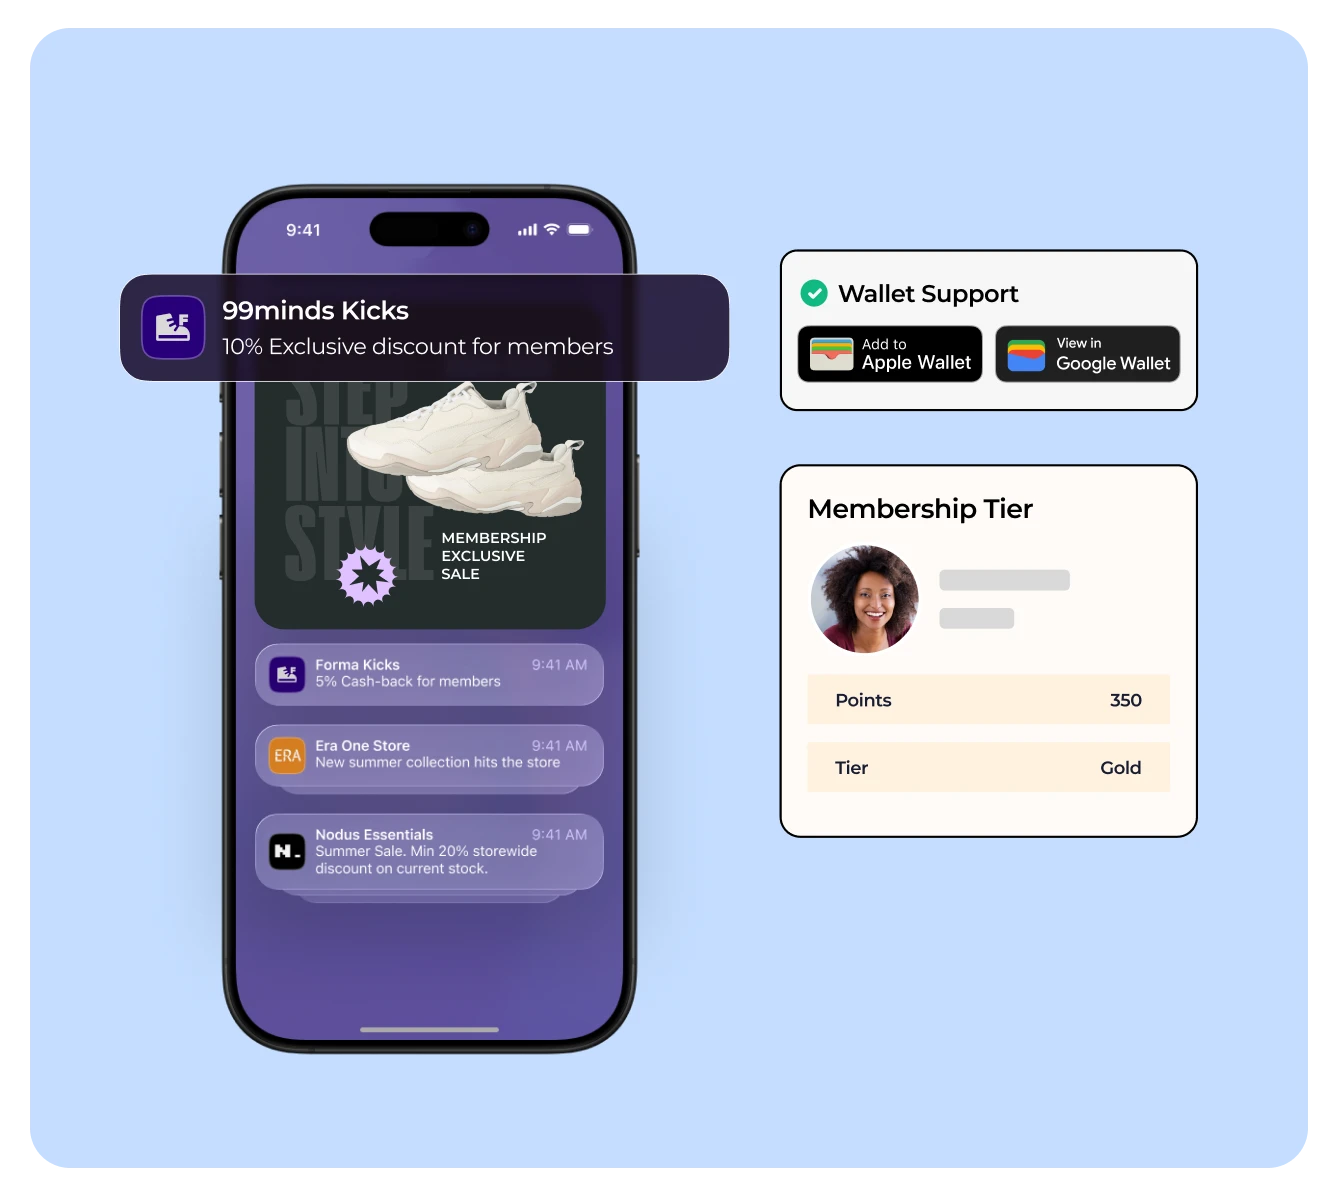
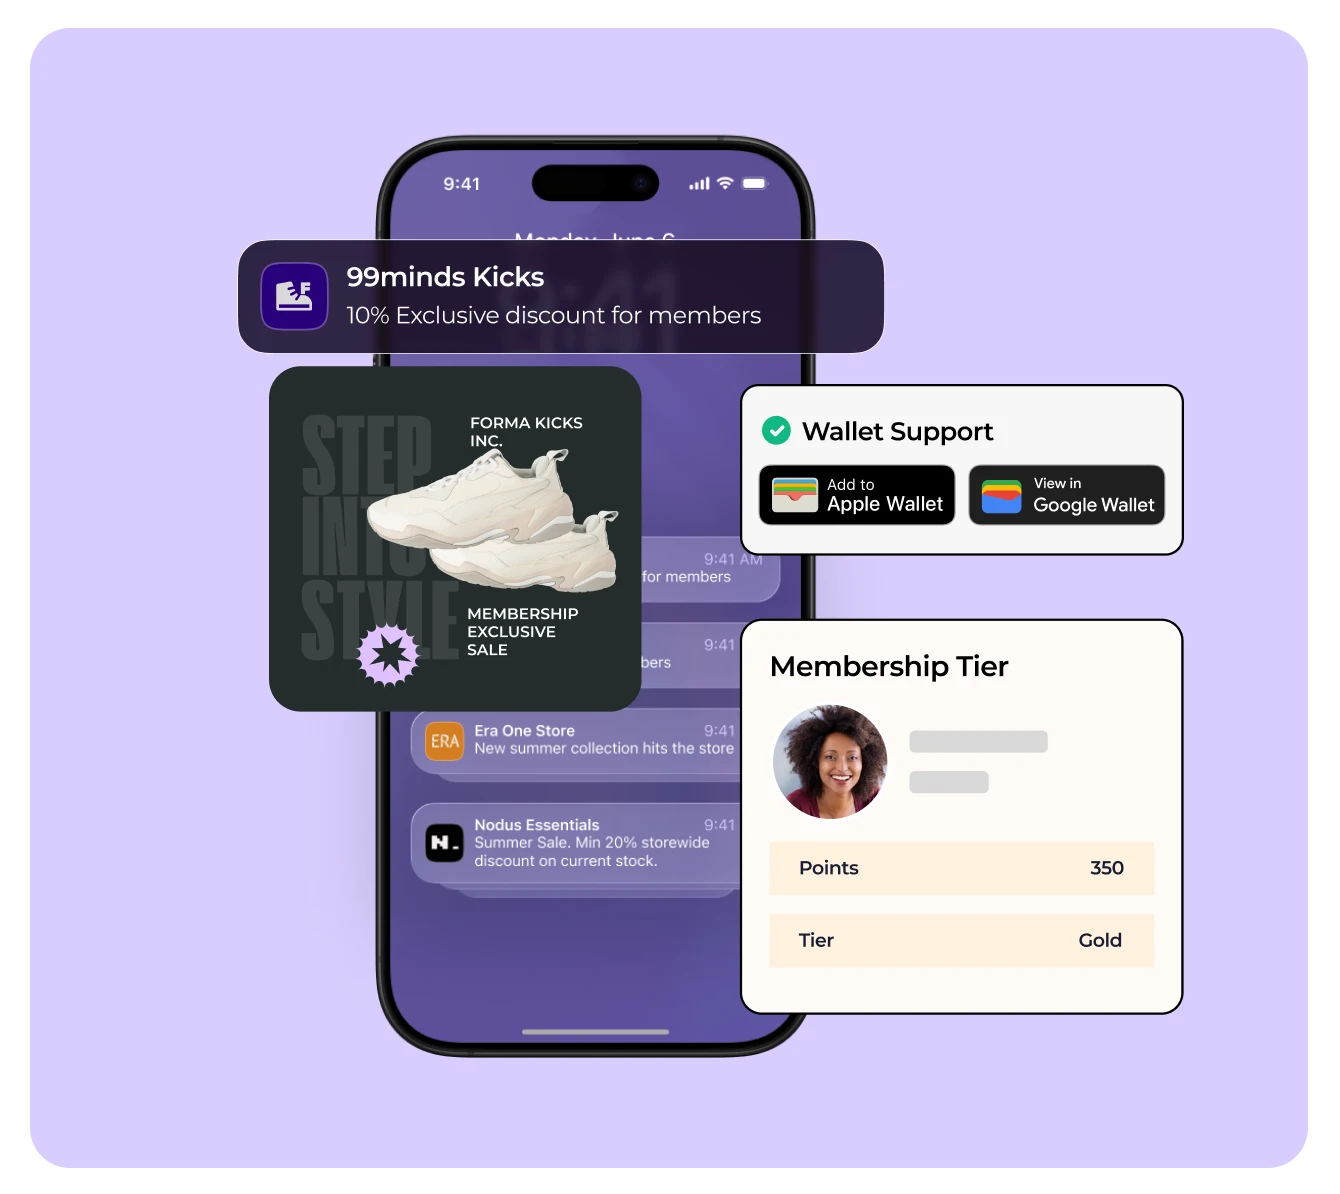
Membership page images updated

diff --git a/src/components/features/FeatureHowItWorks.jsx b/src/components/features/FeatureHowItWorks.jsx
@@ -10,7 +10,7 @@ export default function FeatureWork({ sectionTitle, subTitle, features = [], cta
               </h2>
             )}
             {subTitle && (
-              <p className="mt-3 text-[#4b4b4b] max-w-md">{subTitle}</p>
+              <p className="mt-3 max-w-md">{subTitle}</p>
             )}
           </div>
 
@@ -21,7 +21,7 @@ export default function FeatureWork({ sectionTitle, subTitle, features = [], cta
                   <h4 className="font-semibold text-[#1c1335]">
                     {index + 1}. {feature.title}
                   </h4>
-                  <p className="mt-1 text-[#4b4b4b] text-sm leading-relaxed">
+                  <p className="mt-1  text-sm leading-relaxed">
                     {feature.description}
                   </p>
                 </div>
@@ -38,11 +38,11 @@ export default function FeatureWork({ sectionTitle, subTitle, features = [], cta
           )}
         </div>
 
-        <div className="flex justify-center lg:justify-end">
+        <div className="flex justify-center">
           <img
             src={cta?.img || "/assets/loyalty-demo.webp"}
             alt={cta?.alt || "Membership Program Workflow"}
-            className="w-full max-w-md lg:max-w-lg rounded-2xl shadow-md"
+            className="w-full max-w-md lg:max-w-lg rounded-2xl"
             loading="lazy"
           />
         </div>

diff --git a/src/components/features/FeatureSection.jsx b/src/components/features/FeatureSection.jsx
@@ -28,9 +28,9 @@ export default function FeatureSection({ sectionTitle, features }) {
               >
                 <p className="text-base font-medium text-[#6820EE] uppercase bg-clip-text">{feature.smallheading}</p>
                 <h2 className="py-4 font-medium">{feature.title}</h2>
-                <p className="text-[#4b4b4b]">{feature.description}</p>
+                <p className="">{feature.description}</p>
                   {feature.list && feature.list.length > 0 && (
-                  <ul className="mt-4 list-disc list-inside text-lg text-[#4b4b4b] space-y-2">
+                  <ul className="mt-4 list-disc list-inside text-lg  space-y-2">
                     {feature.list.map((item, index) => (
                       <li key={index}>{item}</li>
                     ))}
@@ -67,7 +67,7 @@ export default function FeatureSection({ sectionTitle, features }) {
                 <img
                   alt={feature.alt}
                   src={feature.img}
-                  className="rounded-2xl shadow-vulcan-950/50 w-full"
+                  className="rounded-2xl shadow-vulcan-950/50 w-[550px]"
                   loading="lazy"
                 />
               </div>

diff --git a/src/config/memberRetentionConfig.js b/src/config/memberRetentionConfig.js
@@ -33,7 +33,7 @@ export const membershipFeaturesConfig = {
       title: "Combine Store Credit, Loyalty & Memberships in One System",
       description:
         "Give members more value in fewer clicks. Offer instant store credit, cashback, and tier-based perks under one unified platform, fully synced with your eCommerce and POS systems.",
-      img: "/assets/membership/bulk_am.webp",
+      img: "/assets/membership/one_system.webp",
       alt: "Combine Store Credit, Loyalty & Memberships in One System",
       orientation: "right",
     },
@@ -67,7 +67,7 @@ export const membershipHowItWorksConfig = {
   cta: {
     text: "Get Started Today",
     link: "https://calendly.com/99minds/30min",
-    img: "/assets/loyalty/loyaltyreward.webp",
+    img: "/assets/membership/MP-work.webp",
     alt: "99minds Membership Flow Diagram",
   },
 };
